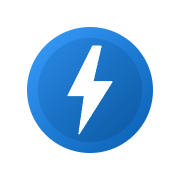
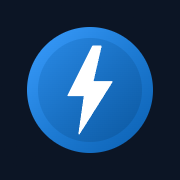
vI

diff --git a/index.html b/index.html
@@ -32,7 +32,7 @@
     <link rel="manifest" href="./manifest.json">
 
     <!-- Browser & Mobile App Settings -->
-    <meta name="msapplication-TileColor" content="#101010">
+    <meta name="msapplication-TileColor" content="#0c1525">
     <meta name="color-scheme" content="dark">
     <meta name="theme-color" content="#3b82f6">
     <meta name="apple-mobile-web-app-capable" content="yes">
